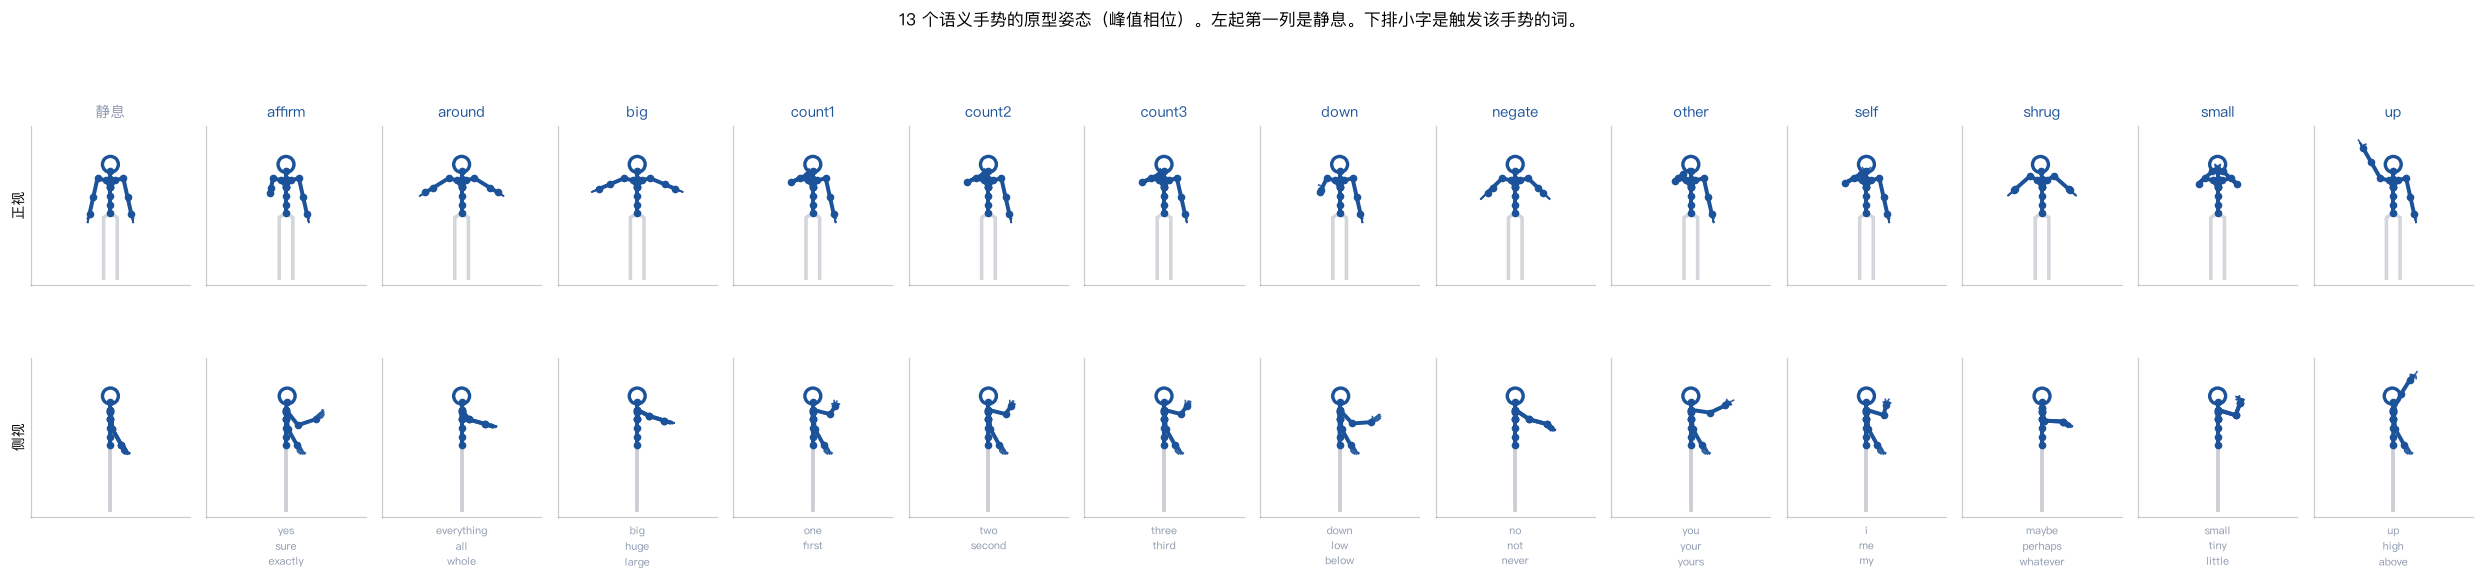
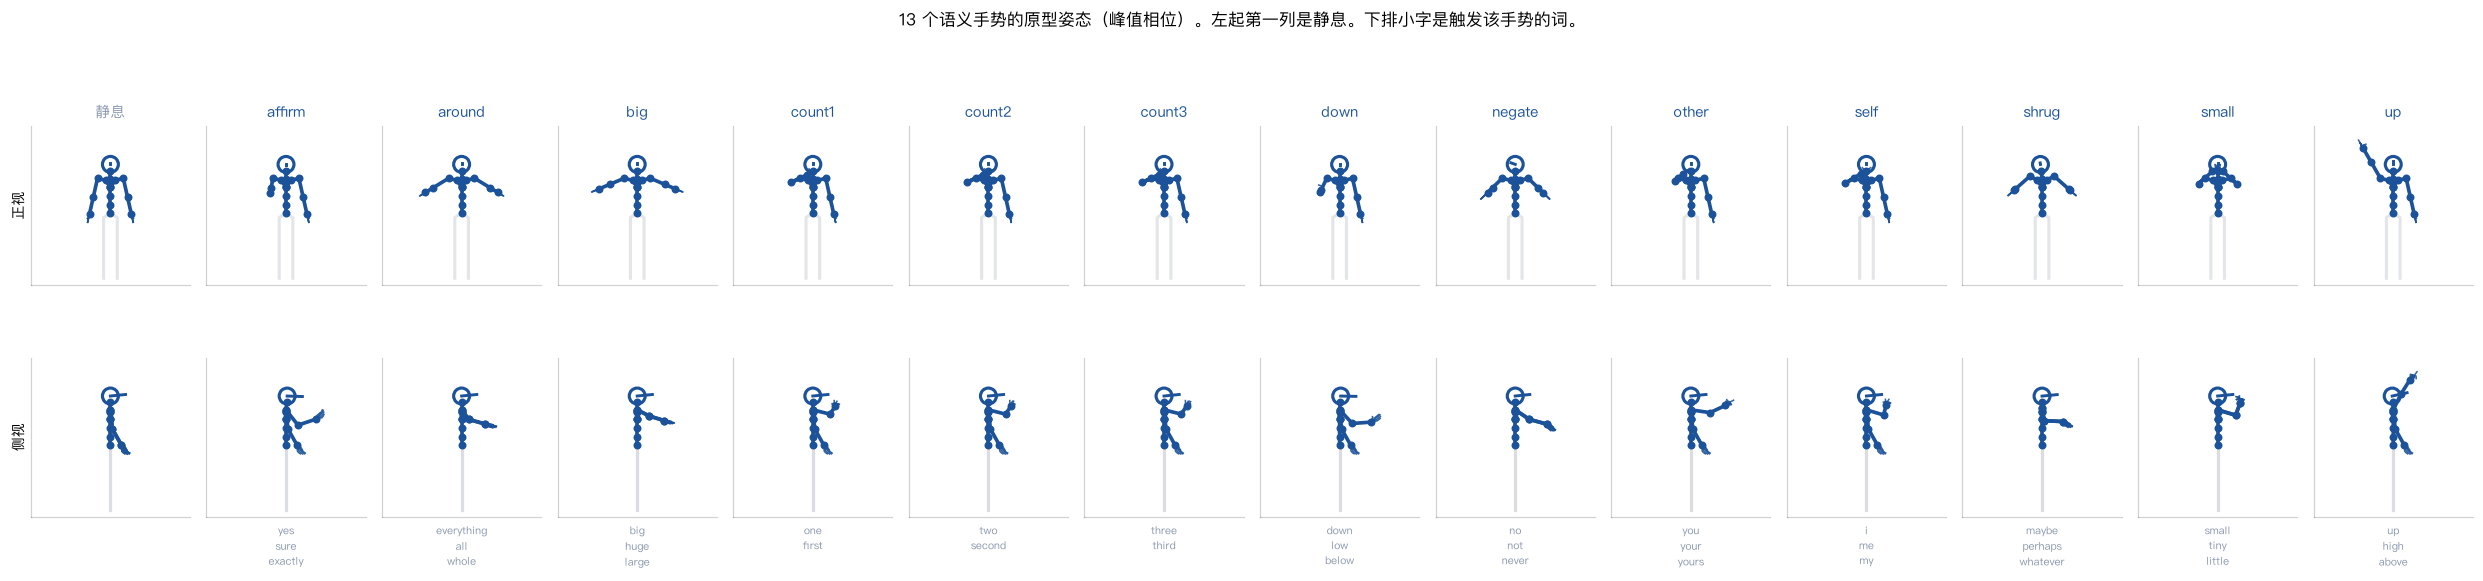
Regenerate the gesture atlas with facing indicators

diff --git a/scripts/explain_gesture.py b/scripts/explain_gesture.py
@@ -13,7 +13,8 @@ from scripts._style import BLUE, GRAY, GREEN, RED, demo_clip, plt, save  # noqa:
 from si.corpus import SEMANTIC_CLASSES, SEMANTIC_LEXICON  # noqa: E402
 from si.gesture_expert import FPS, _envelope, _semantic_offset  # noqa: E402
 from si.pose import CONTROL_NAMES, controls_to_body_feature, home_controls  # noqa: E402
-from si.render import _draw_skeleton, joints_from_body  # noqa: E402
+from si.render import joints_from_body  # noqa: E402
+from si.video import draw  # noqa: E402
 
 
 def atlas():
@@ -23,14 +24,11 @@ def atlas():
     for k, c in enumerate(["静息"] + cls):
         ph = np.linspace(0, 1, 21)
         off = np.zeros((21, len(CONTROL_NAMES))) if c == "静息" else _semantic_offset(c, ph)
-        P = joints_from_body(controls_to_body_feature(home_controls(21) + off))
+        P, R = joints_from_body(controls_to_body_feature(home_controls(21) + off),
+                                return_rot=True)
         for r, (ai, bi) in enumerate([(0, 1), (2, 1)]):
             ax = axes[r, k]
-            _draw_skeleton(ax, P[10], ai, bi, BLUE)
-            ax.set_xlim(-1.05, 1.05); ax.set_ylim(-0.95, 1.15); ax.set_aspect("equal")
-            ax.set_xticks([]); ax.set_yticks([])
-            for sp in ax.spines.values():
-                sp.set_alpha(0.2)
+            draw(ax, P[10], ai, bi, BLUE, lw=2.4, R=R[10])
             if r == 0:
                 ax.set_title(c, fontsize=9.5, color=BLUE if c != "静息" else GRAY)
             else:
@@ -97,13 +95,11 @@ def atlas_gif():
         fig, axes = plt.subplots(1, len(cls), figsize=(1.45 * len(cls), 3.1))
         for k, c in enumerate(cls):
             off = _semantic_offset(c, np.linspace(0, 1, n))[f] * envg[f]
-            P = joints_from_body(controls_to_body_feature(home_controls(1) + off[None]))
+            P, R = joints_from_body(controls_to_body_feature(home_controls(1) + off[None]),
+                                    return_rot=True)
             ax = axes[k]
-            _draw_skeleton(ax, P[0], 0, 1, BLUE)
-            ax.set_xlim(-1.05, 1.05); ax.set_ylim(-0.95, 1.15); ax.set_aspect("equal")
-            ax.set_xticks([]); ax.set_yticks([]); ax.set_title(c, fontsize=8)
-            for sp in ax.spines.values():
-                sp.set_alpha(0.2)
+            draw(ax, P[0], 0, 1, BLUE, lw=2.4, R=R[0])
+            ax.set_title(c, fontsize=8)
         fig.suptitle(f"语义手势的起手—保持—收手   包络 w = {envg[f]:.2f}", fontsize=10)
         fig.tight_layout()
         fig.canvas.draw()
